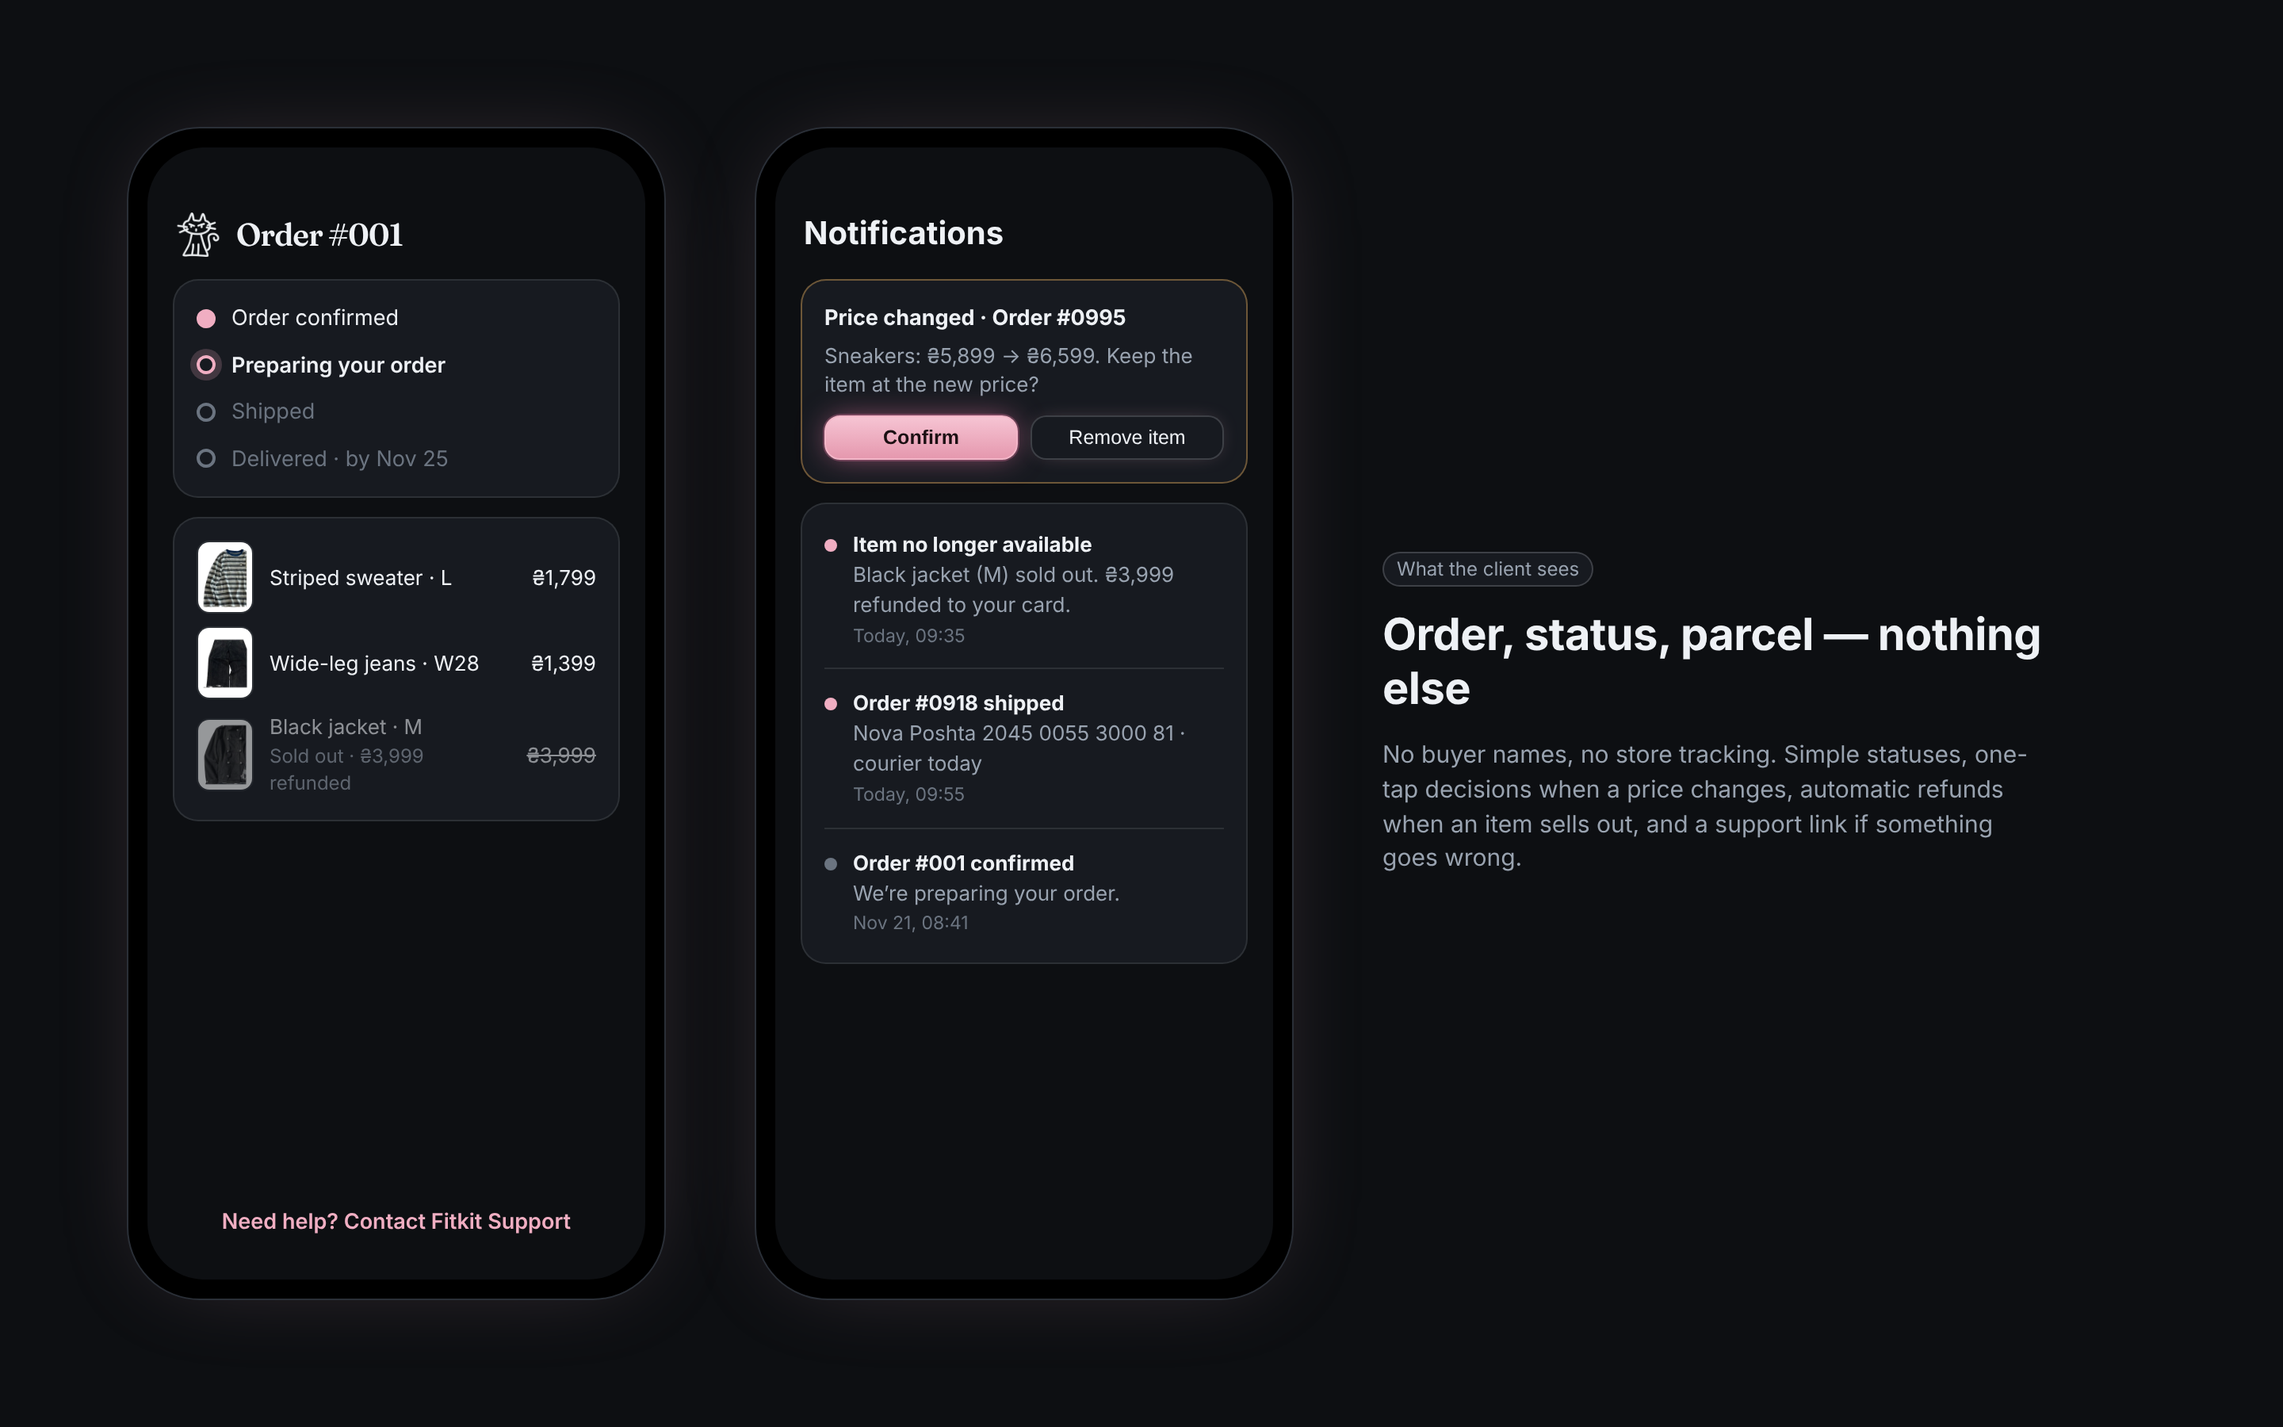
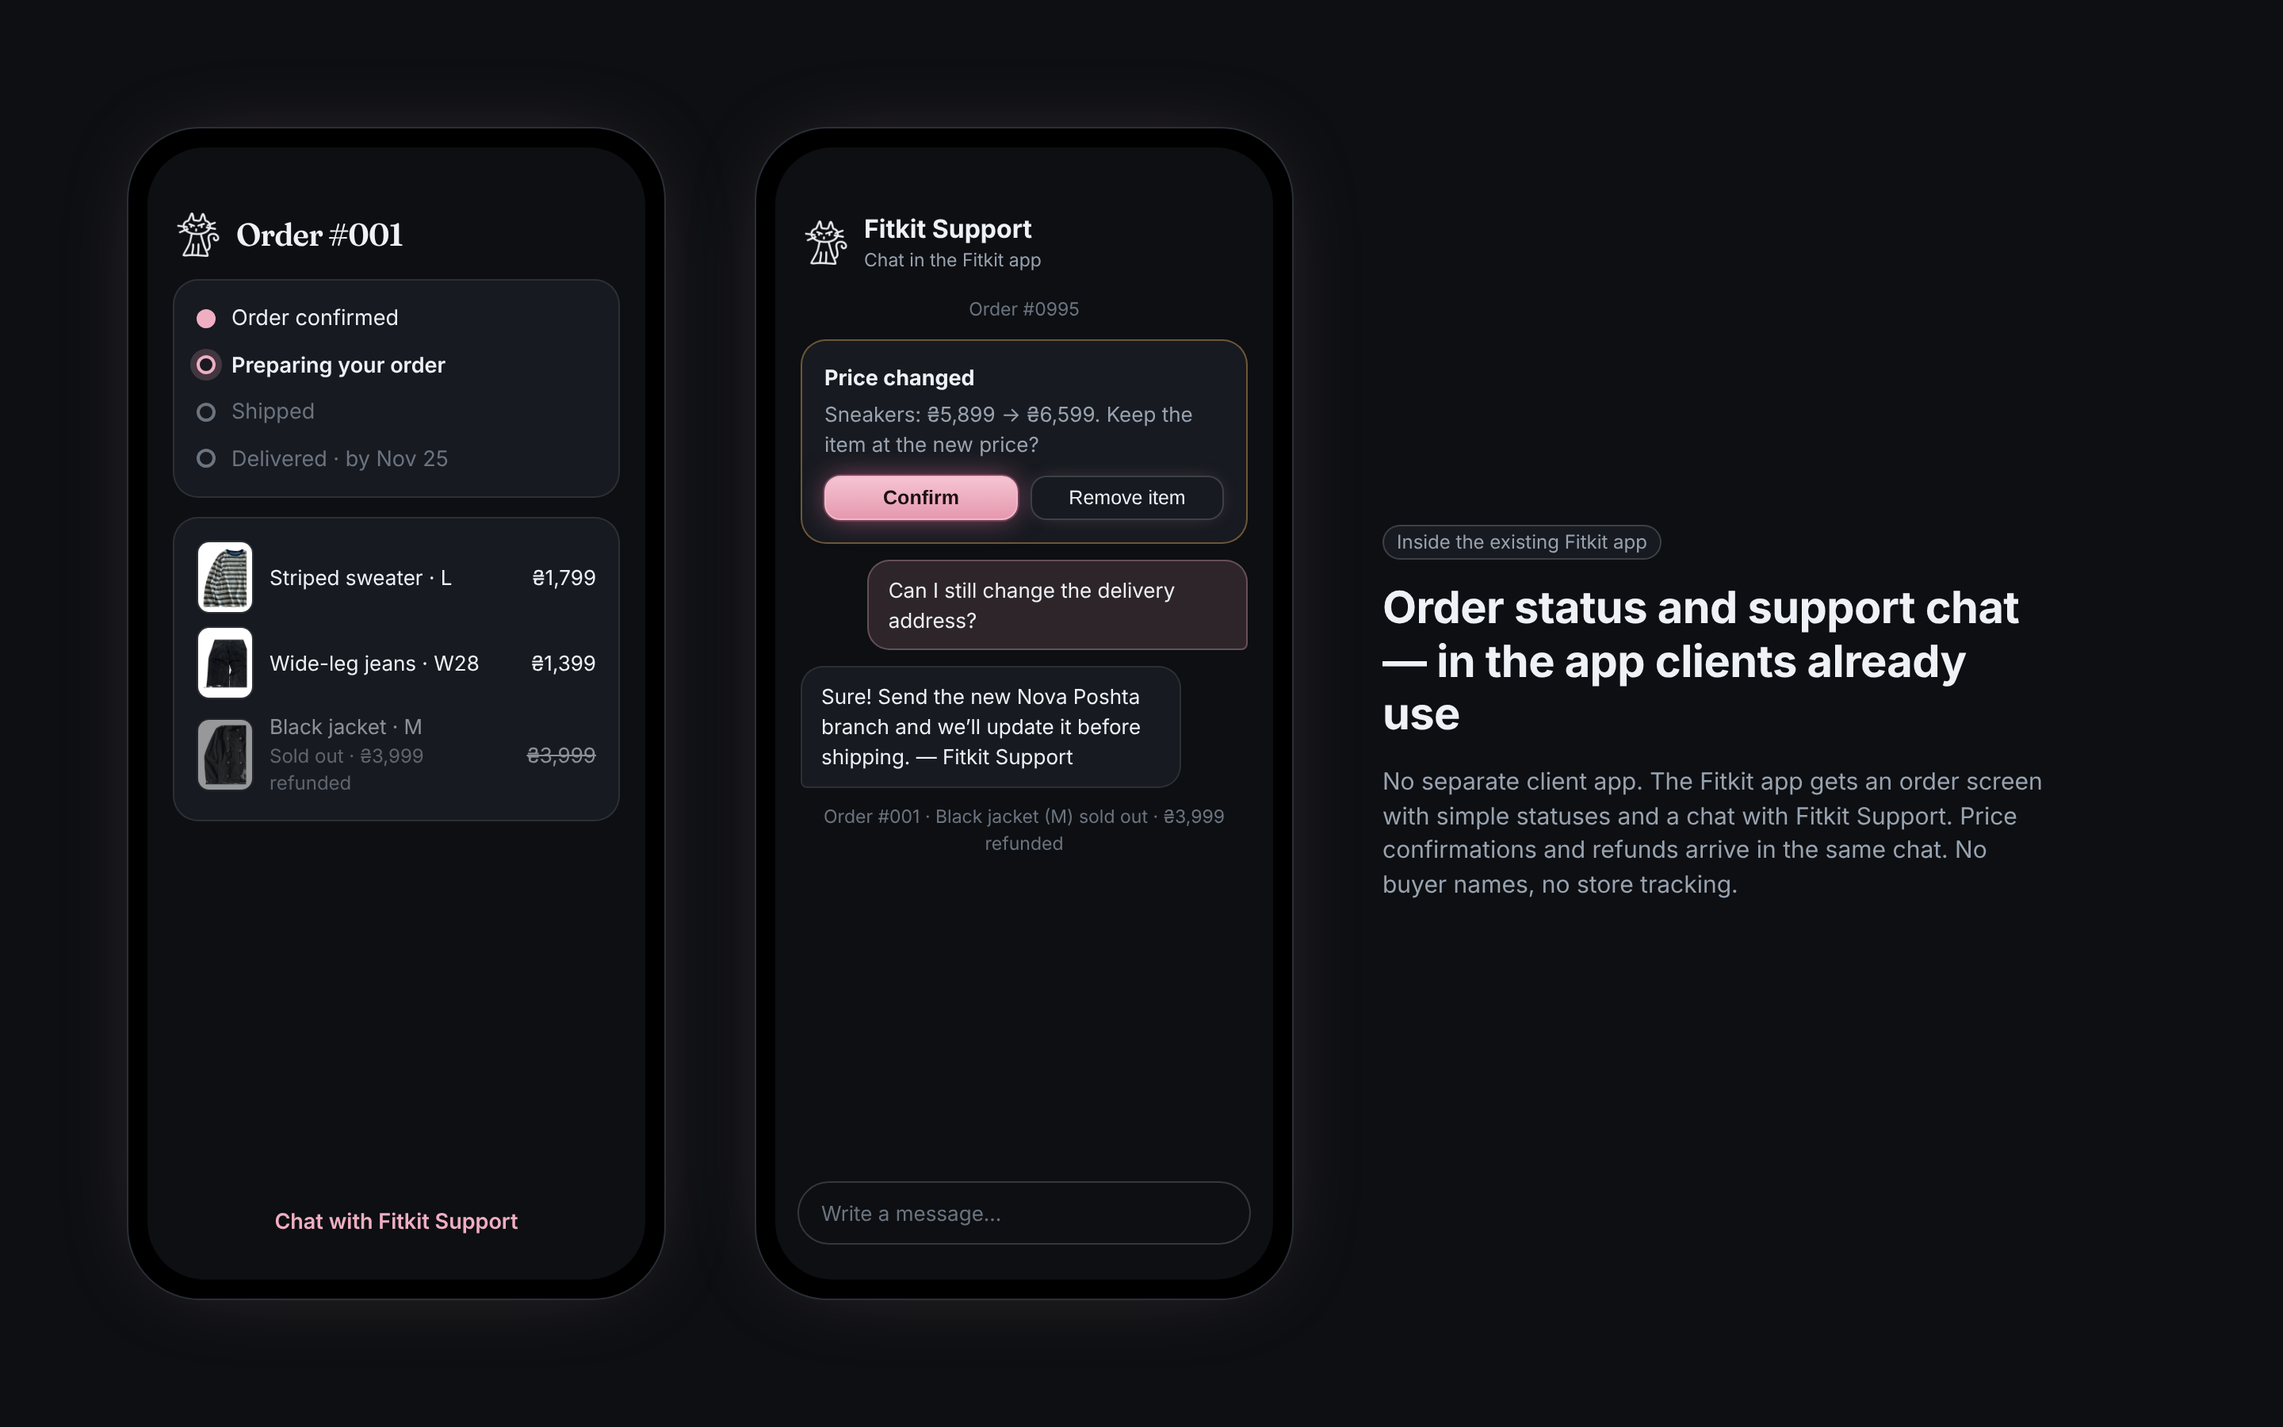
Fitkit: client side lives in the existing Fitkit app, not a separate app
Screen 06 now shows the order screen and the Fitkit Support chat inside
the existing app; price confirmations and refunds arrive in that chat.

Claude-Session: https://claude.ai/code/session_01PLvu7Xz1jsA254q93HsbTw

diff --git a/fitkit-employee-app/mockups/06-client-app.html b/fitkit-employee-app/mockups/06-client-app.html
@@ -1,5 +1,5 @@
 <!doctype html>
-<html lang="en"><head><meta charset="utf-8"><title>Fitkit — client app</title>
+<html lang="en"><head><meta charset="utf-8"><title>Fitkit — in the Fitkit app</title>
 <link rel="stylesheet" href="styles.css">
 <style>
 .stage { width: 1440px; height: 900px; display: flex; gap: 56px; padding: 60px 80px; background: var(--bg); align-items: center; }
@@ -22,6 +22,10 @@
 .nt .dot { width: 8px; height: 8px; border-radius: 50%; background: var(--clay); margin-top: 6px; flex: none; }
 .nt small { display: block; color: var(--faint); font-size: 11.5px; margin-top: 2px; }
 .help { text-align: center; color: var(--clay); font-weight: 600; font-size: 13.5px; padding: 14px 0 26px; }
+.msg { background: var(--panel); border: 1px solid var(--line); border-radius: 14px 14px 14px 4px; padding: 9px 12px; font-size: 13px; max-width: 85%; }
+.msg.me { align-self: flex-end; background: var(--clay-veil); border-color: rgba(240,174,194,.3); border-radius: 14px 14px 4px 14px; }
+.sysm { align-self: center; text-align: center; font-size: 11.5px; color: var(--faint); }
+.inp { margin: 0 14px 22px; height: 40px; border: 1px solid var(--line-2); border-radius: 999px; display: flex; align-items: center; padding: 0 14px; color: var(--faint); font-size: 13px; }
 .expl { max-width: 420px; display: flex; flex-direction: column; gap: 14px; }
 .expl h1 { font-size: 28px; line-height: 1.2; }
 .expl p { color: var(--muted); font-size: 15px; }
@@ -39,22 +43,23 @@
         <div class="it" style="margin-top:8px;opacity:.55"><img class="ph" src="assets/photos/jacket-black.jpg" style="width:36px;height:46px"><div class="grow">Black jacket · M<div class="sub" style="font-size:12px">Sold out · ₴3,999 refunded</div></div><s>₴3,999</s></div>
       </div>
     </div>
-    <div class="help">Need help? Contact Fitkit Support</div>
+    <div class="help">Chat with Fitkit Support</div>
   </div></div>
   <div class="phone"><div class="screen">
-    <div class="ptop"><b style="font-size:20px">Notifications</b></div>
-    <div class="pb">
-      <div class="cardp alert"><b>Price changed · Order #0995</b><div class="sub" style="margin-top:4px">Sneakers: ₴5,899 → ₴6,599. Keep the item at the new price?</div>
+    <div class="ptop"><img src="assets/logo-mark.png" style="width:28px;height:28px;filter:invert(1)"><div><b style="font-size:16px">Fitkit Support</b><div class="sub" style="font-size:11.5px">Chat in the Fitkit app</div></div></div>
+    <div class="pb" style="gap:10px">
+      <div class="sysm">Order #0995</div>
+      <div class="cardp alert"><b>Price changed</b><div class="sub" style="margin-top:4px">Sneakers: ₴5,899 → ₴6,599. Keep the item at the new price?</div>
         <div class="btns"><button class="btn pri sm">Confirm</button><button class="btn sm">Remove item</button></div></div>
-      <div class="cardp" style="padding:4px 14px">
-      <div class="nt"><span class="dot"></span><div><b>Item no longer available</b><div class="sub">Black jacket (M) sold out. ₴3,999 refunded to your card.</div><small>Today, 09:35</small></div></div>
-      <div class="nt"><span class="dot"></span><div><b>Order #0918 shipped</b><div class="sub">Nova Poshta 2045 0055 3000 81 · courier today</div><small>Today, 09:55</small></div></div>
-      <div class="nt"><span class="dot" style="background:var(--faint)"></span><div><b>Order #001 confirmed</b><div class="sub">We’re preparing your order.</div><small>Nov 21, 08:41</small></div></div>
-    </div></div>
+      <div class="msg me">Can I still change the delivery address?</div>
+      <div class="msg">Sure! Send the new Nova Poshta branch and we’ll update it before shipping. — Fitkit Support</div>
+      <div class="sysm">Order #001 · Black jacket (M) sold out · ₴3,999 refunded</div>
+    </div>
+    <div class="inp">Write a message…</div>
   </div></div>
   <div class="expl">
-    <span class="tag" style="align-self:flex-start">What the client sees</span>
-    <h1>Order, status, parcel — nothing else</h1>
-    <p>No buyer names, no store tracking. Simple statuses, one-tap decisions when a price changes, automatic refunds when an item sells out, and a support link if something goes wrong.</p>
+    <span class="tag" style="align-self:flex-start">Inside the existing Fitkit app</span>
+    <h1>Order status and support chat — in the app clients already use</h1>
+    <p>No separate client app. The Fitkit app gets an order screen with simple statuses and a chat with Fitkit Support. Price confirmations and refunds arrive in the same chat. No buyer names, no store tracking.</p>
   </div>
 </div></div></body></html>

diff --git a/fitkit-employee-app/mockups/build.py b/fitkit-employee-app/mockups/build.py
@@ -337,7 +337,7 @@ save('05-tracking.html', shell('Tracking', 'Tracking', main5, css5))
 
 # ---------- 06 Client app ----------
 page6 = f'''<!doctype html>
-<html lang="en"><head><meta charset="utf-8"><title>Fitkit — client app</title>
+<html lang="en"><head><meta charset="utf-8"><title>Fitkit — in the Fitkit app</title>
 <link rel="stylesheet" href="styles.css">
 <style>
 .stage {{ width: 1440px; height: 900px; display: flex; gap: 56px; padding: 60px 80px; background: var(--bg); align-items: center; }}
@@ -360,6 +360,10 @@ page6 = f'''<!doctype html>
 .nt .dot {{ width: 8px; height: 8px; border-radius: 50%; background: var(--clay); margin-top: 6px; flex: none; }}
 .nt small {{ display: block; color: var(--faint); font-size: 11.5px; margin-top: 2px; }}
 .help {{ text-align: center; color: var(--clay); font-weight: 600; font-size: 13.5px; padding: 14px 0 26px; }}
+.msg {{ background: var(--panel); border: 1px solid var(--line); border-radius: 14px 14px 14px 4px; padding: 9px 12px; font-size: 13px; max-width: 85%; }}
+.msg.me {{ align-self: flex-end; background: var(--clay-veil); border-color: rgba(240,174,194,.3); border-radius: 14px 14px 4px 14px; }}
+.sysm {{ align-self: center; text-align: center; font-size: 11.5px; color: var(--faint); }}
+.inp {{ margin: 0 14px 22px; height: 40px; border: 1px solid var(--line-2); border-radius: 999px; display: flex; align-items: center; padding: 0 14px; color: var(--faint); font-size: 13px; }}
 .expl {{ max-width: 420px; display: flex; flex-direction: column; gap: 14px; }}
 .expl h1 {{ font-size: 28px; line-height: 1.2; }}
 .expl p {{ color: var(--muted); font-size: 15px; }}
@@ -377,23 +381,24 @@ page6 = f'''<!doctype html>
         <div class="it" style="margin-top:8px;opacity:.55">{photo('jacket-black', 36, 46)}<div class="grow">Black jacket · M<div class="sub" style="font-size:12px">Sold out · ₴3,999 refunded</div></div><s>₴3,999</s></div>
       </div>
     </div>
-    <div class="help">Need help? Contact Fitkit Support</div>
+    <div class="help">Chat with Fitkit Support</div>
   </div></div>
   <div class="phone"><div class="screen">
-    <div class="ptop"><b style="font-size:20px">Notifications</b></div>
-    <div class="pb">
-      <div class="cardp alert"><b>Price changed · Order #0995</b><div class="sub" style="margin-top:4px">Sneakers: ₴5,899 → ₴6,599. Keep the item at the new price?</div>
+    <div class="ptop"><img src="assets/logo-mark.png" style="width:28px;height:28px;filter:invert(1)"><div><b style="font-size:16px">Fitkit Support</b><div class="sub" style="font-size:11.5px">Chat in the Fitkit app</div></div></div>
+    <div class="pb" style="gap:10px">
+      <div class="sysm">Order #0995</div>
+      <div class="cardp alert"><b>Price changed</b><div class="sub" style="margin-top:4px">Sneakers: ₴5,899 → ₴6,599. Keep the item at the new price?</div>
         <div class="btns"><button class="btn pri sm">Confirm</button><button class="btn sm">Remove item</button></div></div>
-      <div class="cardp" style="padding:4px 14px">
-      <div class="nt"><span class="dot"></span><div><b>Item no longer available</b><div class="sub">Black jacket (M) sold out. ₴3,999 refunded to your card.</div><small>Today, 09:35</small></div></div>
-      <div class="nt"><span class="dot"></span><div><b>Order #0918 shipped</b><div class="sub">Nova Poshta 2045 0055 3000 81 · courier today</div><small>Today, 09:55</small></div></div>
-      <div class="nt"><span class="dot" style="background:var(--faint)"></span><div><b>Order #001 confirmed</b><div class="sub">We’re preparing your order.</div><small>Nov 21, 08:41</small></div></div>
-    </div></div>
+      <div class="msg me">Can I still change the delivery address?</div>
+      <div class="msg">Sure! Send the new Nova Poshta branch and we’ll update it before shipping. — Fitkit Support</div>
+      <div class="sysm">Order #001 · Black jacket (M) sold out · ₴3,999 refunded</div>
+    </div>
+    <div class="inp">Write a message…</div>
   </div></div>
   <div class="expl">
-    <span class="tag" style="align-self:flex-start">What the client sees</span>
-    <h1>Order, status, parcel — nothing else</h1>
-    <p>No buyer names, no store tracking. Simple statuses, one-tap decisions when a price changes, automatic refunds when an item sells out, and a support link if something goes wrong.</p>
+    <span class="tag" style="align-self:flex-start">Inside the existing Fitkit app</span>
+    <h1>Order status and support chat — in the app clients already use</h1>
+    <p>No separate client app. The Fitkit app gets an order screen with simple statuses and a chat with Fitkit Support. Price confirmations and refunds arrive in the same chat. No buyer names, no store tracking.</p>
   </div>
 </div></div></body></html>'''
 save('06-client-app.html', page6)

diff --git a/fitkit-employee-app/README.md b/fitkit-employee-app/README.md
@@ -7,7 +7,7 @@ One app where a Fitkit buyer takes a client’s request, checks the items, buys 
 ## 1. Principles and navigation
 
 - **Hidden mechanism.** The client sees only Fitkit — no buyer names, store names or store tracking. Parcels arrive in Fitkit packaging without store receipts or boxes.
-- **No clarifying questions.** The client app lets people pick only sizes that are in stock, so the buyer doesn’t need to ask. Mismatches that still happen (a price change, an item sold out before purchase) are handled by **rules**, not chat (section 5).
+- **No clarifying questions.** In the Fitkit app clients pick only sizes that are in stock, so the buyer doesn’t need to ask. Mismatches that still happen (a price change, an item sold out before purchase) are handled by **rules**, not chat (section 5).
 - **Minimal UI for the buyer.** Four sections, one main button per screen. Analytics and settings live in a separate **admin back office**.
 
 | Section | Contents |
@@ -71,15 +71,15 @@ Thresholds, wording and actions are set in the admin back office.
 
 ## 6. Clients and support
 
-There is **no chat between the buyer and the client**. If something goes wrong, the client taps *Need help? Contact Fitkit Support* in the app; the request becomes a **support ticket** linked to the order. In Clients the buyer (or a support agent) sees the client list with *All / Open tickets*, the ticket thread in the middle and the client’s details on the right (contacts, address, preferences, recent orders).
+There is **no separate client app** and **no chat between the buyer and the client**. The client writes to **Fitkit Support** in the chat of the existing Fitkit app; each conversation becomes a **support ticket** linked to the order. In Clients the buyer (or a support agent) sees the client list with *All / Open tickets*, the ticket thread in the middle and the client’s details on the right (contacts, address, preferences, recent orders).
 
 Replies are always signed **Fitkit Support** — never a buyer’s name, never a store name. Quick replies cover the common cases (order status, refund info, delivery date, change address); automatic events such as a refund appear in the thread for context. *Resolve* closes the ticket. Fitkit writes first only in exceptional cases (e.g. a lost parcel).
 
 ![Clients and support](mockups/png/04-clients.png)
 
-The client app shows only the order with simple statuses, its items (cancelled ones greyed out with the refund), notifications with one-tap price confirmation, and the support link.
+**In the existing Fitkit app** only two things are added: an order screen with simple statuses and its items (cancelled ones greyed out with the refund), and the Fitkit Support chat. Price confirmations (one tap) and refund notices arrive in the same chat, plus a push notification.
 
-![Client app](mockups/png/06-client-app.png)
+![Order screen and support chat in the Fitkit app](mockups/png/06-client-app.png)
 
 ## 7. Tracking
 
@@ -105,11 +105,11 @@ Every event is stored once and shown twice: in full in Tracking, and simplified 
 | Support ticket | order, client, status (open / resolved), messages signed “Fitkit Support” |
 | History event | who, what, old → new value, time |
 
-**Integrations:** client app (orders, notifications with actions, support); product-link parsing (Open Graph, schema.org, manual fallback); payments and refunds in ₴; a tracking aggregator with webhooks for the store → warehouse leg; the Nova Poshta API to create shipments and read statuses; a mailbox parser that pulls tracking numbers from store shipping emails. **Requirements:** real-time updates; atomic *Take*; masked contacts with every reveal logged; no card data or store passwords in the app; nothing store-related ever reaches the client; personal data under Ukrainian law and GDPR; layout from 1366 px plus a usable phone view.
+**Integrations:** the existing Fitkit app (order screen, support chat with action cards, push notifications); product-link parsing (Open Graph, schema.org, manual fallback); payments and refunds in ₴; a tracking aggregator with webhooks for the store → warehouse leg; the Nova Poshta API to create shipments and read statuses; a mailbox parser that pulls tracking numbers from store shipping emails. **Requirements:** real-time updates; atomic *Take*; masked contacts with every reveal logged; no card data or store passwords in the app; nothing store-related ever reaches the client; personal data under Ukrainian law and GDPR; layout from 1366 px plus a usable phone view.
 
 | Stage | Scope |
 | --- | --- |
-| MVP | Requests, request card with rules, statuses, client notifications, support tickets |
+| MVP | Requests, request card with rules, statuses, order screen and support chat in the Fitkit app |
 | Stage 2 | Tracking aggregator + email parsing, Nova Poshta API, status board, store directory |
 | Stage 3 | Warehouse (receiving, photos, repacking), admin back office with analytics, mobile |
 
